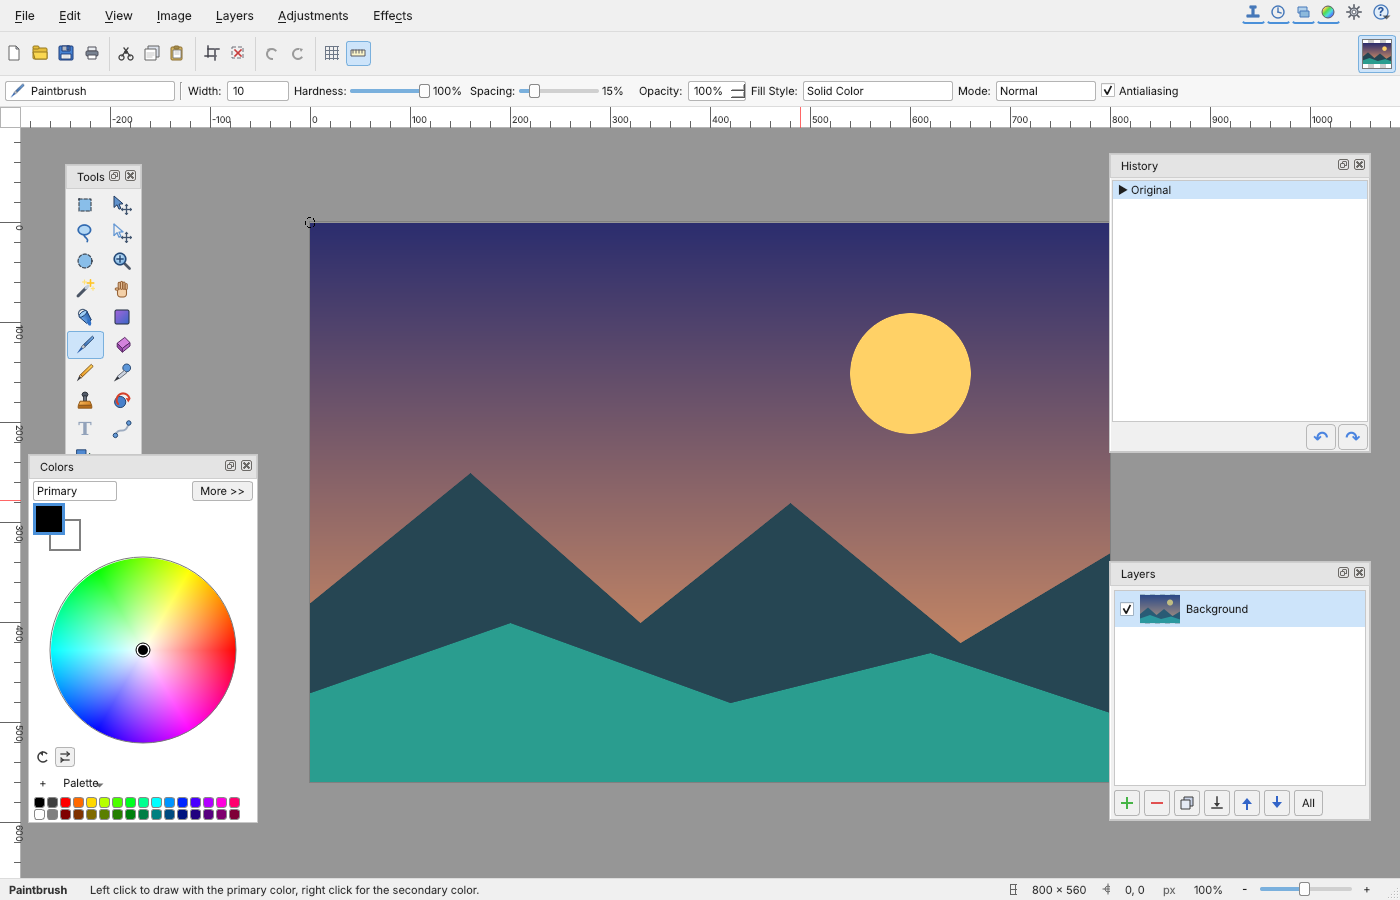
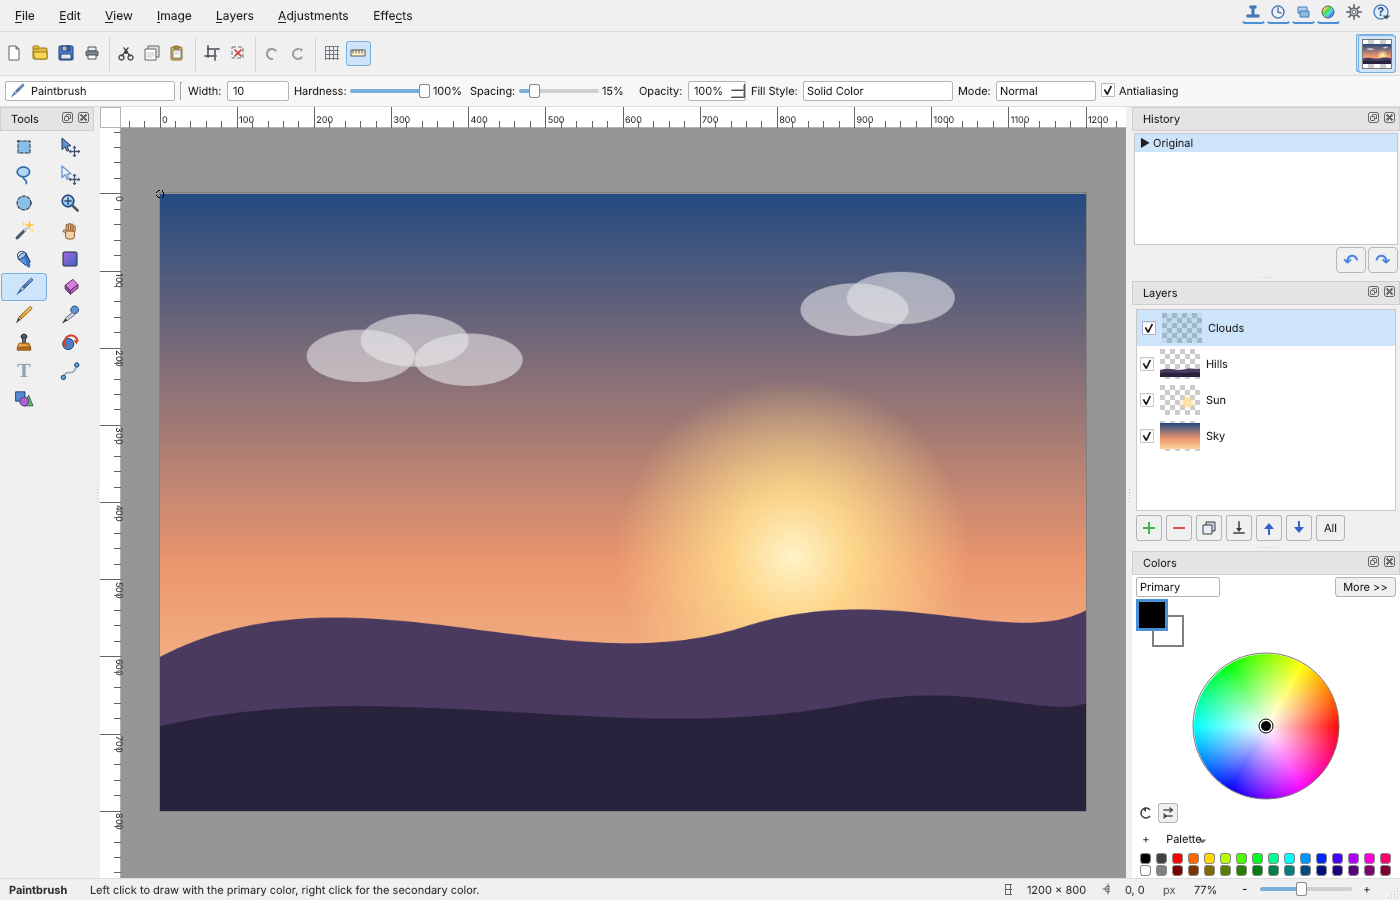
Docs: speed rules, benchmark, docked panels, new roadmap step
CLAUDE.md: roadmap gains step 3 (speed and docked panels, done), how to run
pwm_bench, the speed rules for large images, the shared build library, and
that painting tools report their changed area. FORK.md and README describe
the changes; the README screenshot shows the docked panels.

Claude-Session: https://claude.ai/code/session_013xUt6FSR9DVVQkqs3PapvP

diff --git a/CLAUDE.md b/CLAUDE.md
@@ -32,14 +32,17 @@ Claude sessions and milestones, not in hours of human work.
 
 1. Rebrand and English-only UI. Done 2026-11-05.
 2. AppImage for Kubuntu: start-menu entry on first launch, current Qt,
-   release on GitHub. Done 2026-11-05. Native Wayland waits for step 5.
-3. File formats: remove `.psw`; layered PSD read and write; autosave keeps
+   release on GitHub. Done 2026-11-05. Native Wayland waits for step 6.
+3. Speed with large images (owner's test case: 5000 x 5000 px, 16 layers,
+   600 dpi) and panels docked inside the main window. Done 2026-11-05.
+4. File formats: remove `.psw`; layered PSD read and write; autosave keeps
    layers.
-4. Undo rework.
-5. Code cleanup, especially `src/mainwindow.cpp` and a tool registry. Move
-   the floating panels inside the main window, then drop the XWayland
-   preference in `src/main.cpp` so the app runs natively on Wayland.
-6. Smudge tool and blur brush.
+5. Undo rework: memory budget instead of 100 steps. (Image edits already
+   store only the changed rectangle.)
+6. Code cleanup, especially `src/mainwindow.cpp` and a tool registry. Then
+   ship Qt's Wayland plugin in the AppImage, test on Plasma and drop the
+   XWayland preference in `src/main.cpp`.
+7. Smudge tool and blur brush.
 
 ## Rules
 
@@ -68,9 +71,21 @@ QT_QPA_PLATFORM=offscreen ctest --test-dir build --output-on-failure
 ```
 
 Ubuntu 24.04 packages: `qt6-base-dev qt6-image-formats-plugins libgl1-mesa-dev
-zlib1g-dev cmake ninja-build`. Qt 6.4 is the minimum. On a 2-core machine the
-test targets take about 15 minutes to build, because three of them compile
-`mainwindow.cpp` again.
+zlib1g-dev cmake ninja-build`. Qt 6.4 is the minimum. Everything except
+`main.cpp` is compiled once into the object library `pwm_app`, which the app and
+all test programs link; a clean build of everything takes about 2 minutes on
+2 cores.
+
+Speed benchmark (not in ctest; needs about 3 GB of memory):
+
+```bash
+cmake --build build --target pwm_bench
+QT_QPA_PLATFORM=offscreen build/pwm_bench          # 5000 x 5000 px, 16 layers
+QT_QPA_PLATFORM=offscreen build/pwm_bench --quick  # 2000 x 2000 px, 8 layers
+```
+
+Run it before and after any change to compositing, the canvas, painting tools,
+panels that react to document changes, undo or autosave.
 
 ## Releases
 
@@ -94,7 +109,9 @@ test targets take about 15 minutes to build, because three of them compile
 | Document, layers, selection, undo history | `src/core/` |
 | `.pdn` reader (own MS-NRBF parser, read-only) | `src/core/pdnformat.cpp` |
 | Inherited `.psw` format (to be removed) | `Document::saveNative` in `src/core/document.cpp` |
-| Canvas widget, zoom, rendering | `src/canvas/canvaswidget.cpp` |
+| Combining layers (strips on all cores, reduced size) | `Document::compositeInto`, `Layer::compositeInto` |
+| Canvas widget, zoom, rendering cache | `src/canvas/canvaswidget.cpp` |
+| Thumbnails (Layers panel, image list), cached | `src/core/thumbnails.cpp` |
 | Tools (one class per tool, base `Tool`) | `src/tools/` |
 | Adjustments (base `Adjustment::apply(QImage)`) | `src/adjustments/` |
 | Effects (base `Effect::apply(QImage)`) | `src/effects/` |
@@ -113,6 +130,24 @@ test targets take about 15 minutes to build, because three of them compile
 4. `src/toolicons.cpp`: draw the icon.
 5. `src/panels/tooloptionspanel.cpp`: name list and which options are shown.
 6. A test in `tests/`.
+
+A tool that changes pixels while the mouse moves reports the changed document
+area with `canvas.updateCanvasRegion(rect)` and returns `true` from
+`updatesCanvasRegion()`; otherwise the whole image is combined again on every
+mouse move. `tests/test_brush.cpp` compares such tools against a full redraw.
+
+### Speed rules (large images)
+
+- Nothing may combine, copy or scale whole layers on the UI thread for every
+  event. Caches are keyed by `QImage::cacheKey()`, which changes whenever the
+  pixels can have changed.
+- The canvas keeps a combined image; it is redone only when
+  `renderSignature()` (content version, visibility, opacity, blend mode and
+  position of every layer) changes, or area by area through
+  `updateCanvasRegion()`. Zoomed out below 50 %, it combines at half, quarter,
+  ... size (exact integer averaging, so areas and the whole always agree).
+- Image-edit undo steps keep only the changed rectangle (`ImageEditCommand`).
+- Autosave combines and writes the PNG in a background thread.
 
 ### Settings
 

diff --git a/FORK.md b/FORK.md
@@ -24,13 +24,36 @@ upstream repository. It only reads from it.
 
 ## What differs from upstream
 
+### 2026-11-05: speed with large images, docked panels
+
+Measured with `tests/bench_large.cpp` (5000 x 5000 px, 16 layers, 2 CPU
+cores): switching a layer on or off went from 4.4 s to 0.09 s, painting with a
+1500 px brush from 8 to 41 frames per second, the end of a stroke from 4.1 s to
+0.08 s, undo from 4.8 s to 0.05 s, and undo memory per stroke from 172 MB to
+42 MB; autosave no longer freezes the window.
+
+- Layers are combined in place, in strips spread over all CPU cores, skipping
+  the empty margins of each layer (was: a full copy of the image per layer).
+- Zoomed out, the canvas combines the layers at a reduced size.
+- The canvas no longer recombines the whole image after a brush stroke or its
+  undo; eraser, pencil, recolor and clone stamp now update only the area they
+  touch, like the brush already did.
+- Layers panel and image list thumbnails are cached and made from small copies.
+- Undo steps for painting keep only the changed rectangle.
+- Autosave runs in a background thread.
+- Tools, History, Layers and Colors are docked inside the main window by
+  default (saved layout version 8; older floating layouts are reset once). They
+  can still be moved, tabbed, resized, hidden or torn off; View > Reset Panel
+  Layout and Ctrl+Shift+F5 to F8 put them back.
+- Build: one shared object library for the app and the tests.
+
 ### 2026-11-05: AppImage with start-menu entry
 
 - When started from an AppImage, the app adds a menu entry and icons to
   `~/.local/share` (src/desktopintegration.*), keeps it pointing at the
   AppImage's current location, and offers Help > Add to / Remove from
   application menu.
-- On Wayland it prefers XWayland (src/main.cpp), because its floating panels
+- On Wayland it prefers XWayland (src/main.cpp), because floating panels
   need to position themselves. `QT_QPA_PLATFORM` overrides this.
 - `--version` prints the version and exits.
 - The AppImage workflow builds with the newest Qt 6 from aqtinstall, runs the

diff --git a/README.md b/README.md
@@ -36,18 +36,24 @@ It needs a 64-bit Linux, such as Ubuntu or Kubuntu 22.04 or newer; the release
 notes name the exact glibc version. No other installation is needed, not even
 libfuse2.
 
-On a Wayland desktop (KDE Plasma, GNOME) it currently runs through XWayland, so
-its floating panels can be placed next to the main window. To try native
-Wayland anyway, start it with `QT_QPA_PLATFORM=wayland`.
+On a Wayland desktop (KDE Plasma, GNOME) it currently runs through XWayland.
+To try native Wayland anyway, start it with `QT_QPA_PLATFORM=wayland`.
+
+The Tools, History, Layers and Colors panels sit at the sides of the main
+window. Drag a panel by its title to another side or onto another panel (to
+make tabs), drag the gaps between panels to resize them, or double-click a
+title to make the panel float. F5 to F8 show and hide them; **View > Reset Panel
+Layout** puts everything back.
 
 ## Roadmap
 
 1. Rebrand and English-only interface (done)
 2. AppImage for Kubuntu and other distributions, with a start-menu entry (done)
-3. File formats: layered PSD instead of the inherited `.psw` format
-4. A memory-efficient undo history
-5. Code cleanup
-6. Smudge tool and blur brush
+3. Speed with large images, panels docked in the main window (done)
+4. File formats: layered PSD instead of the inherited `.psw` format
+5. A memory-efficient undo history
+6. Code cleanup, native Wayland
+7. Smudge tool and blur brush
 
 ## Build from source
 
